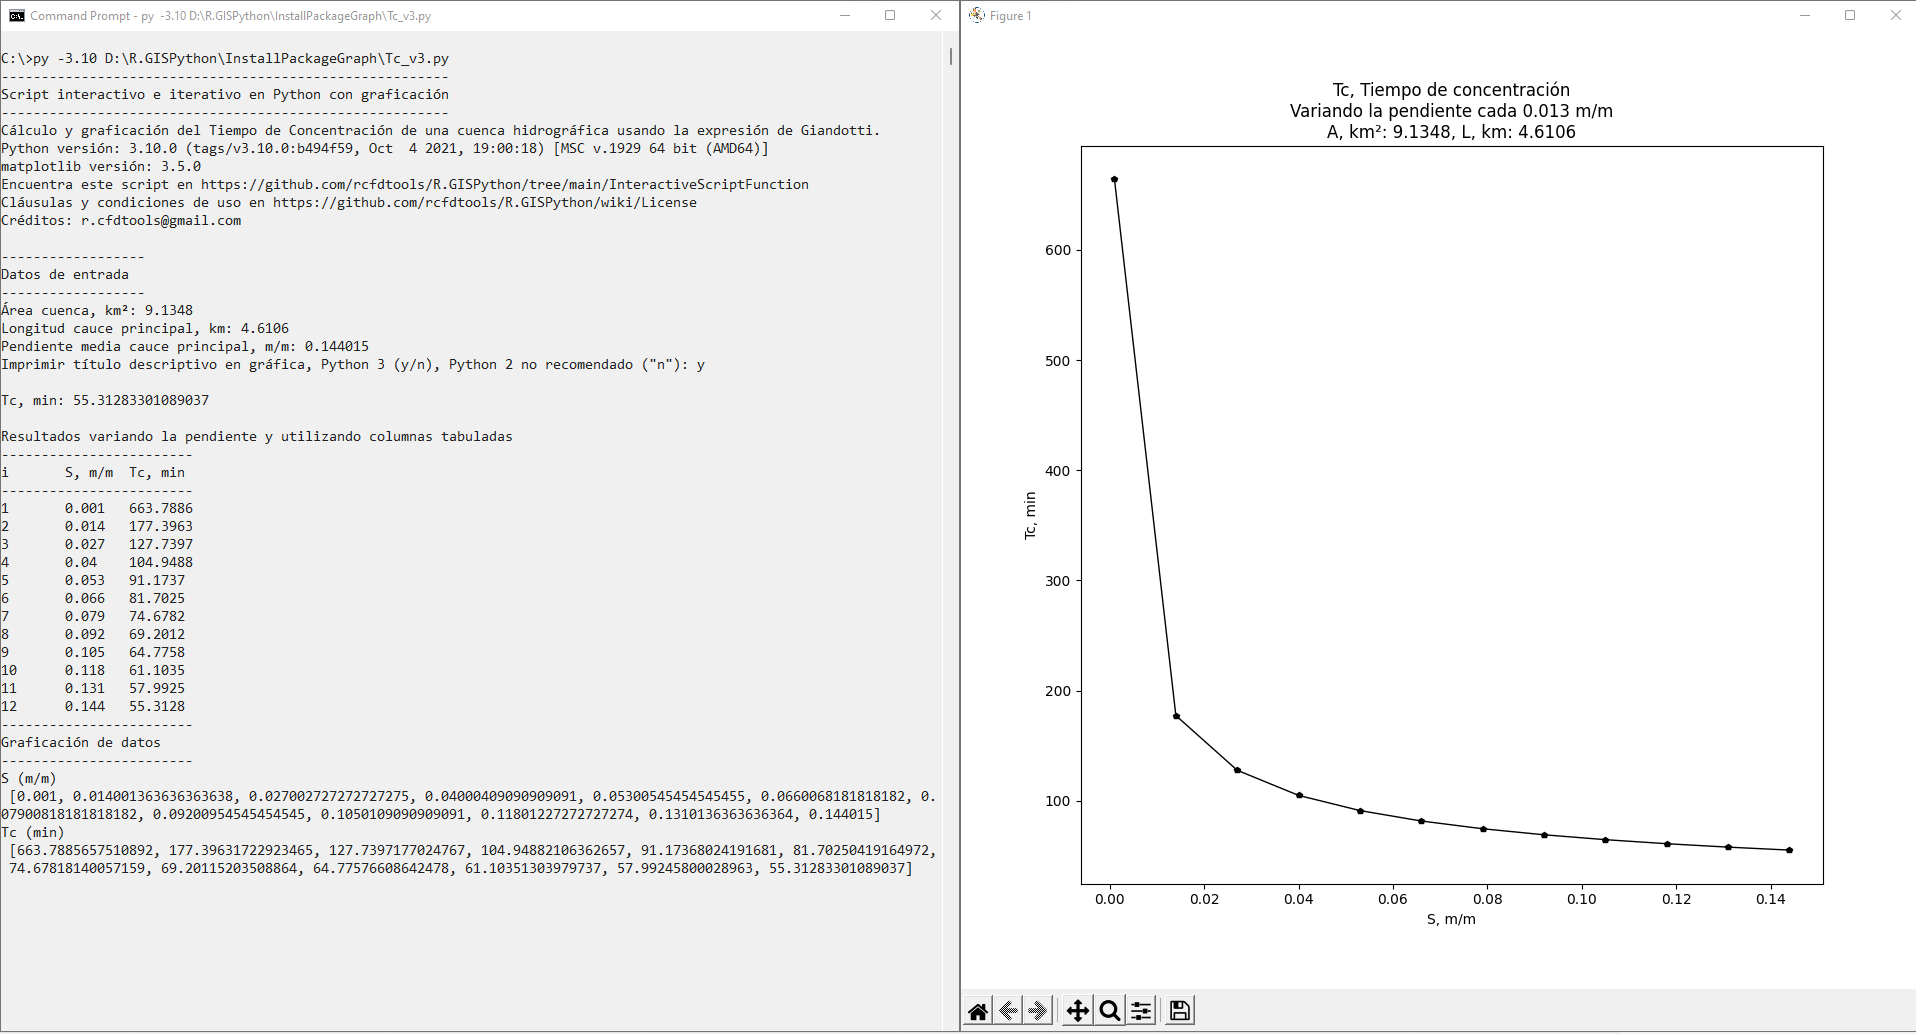
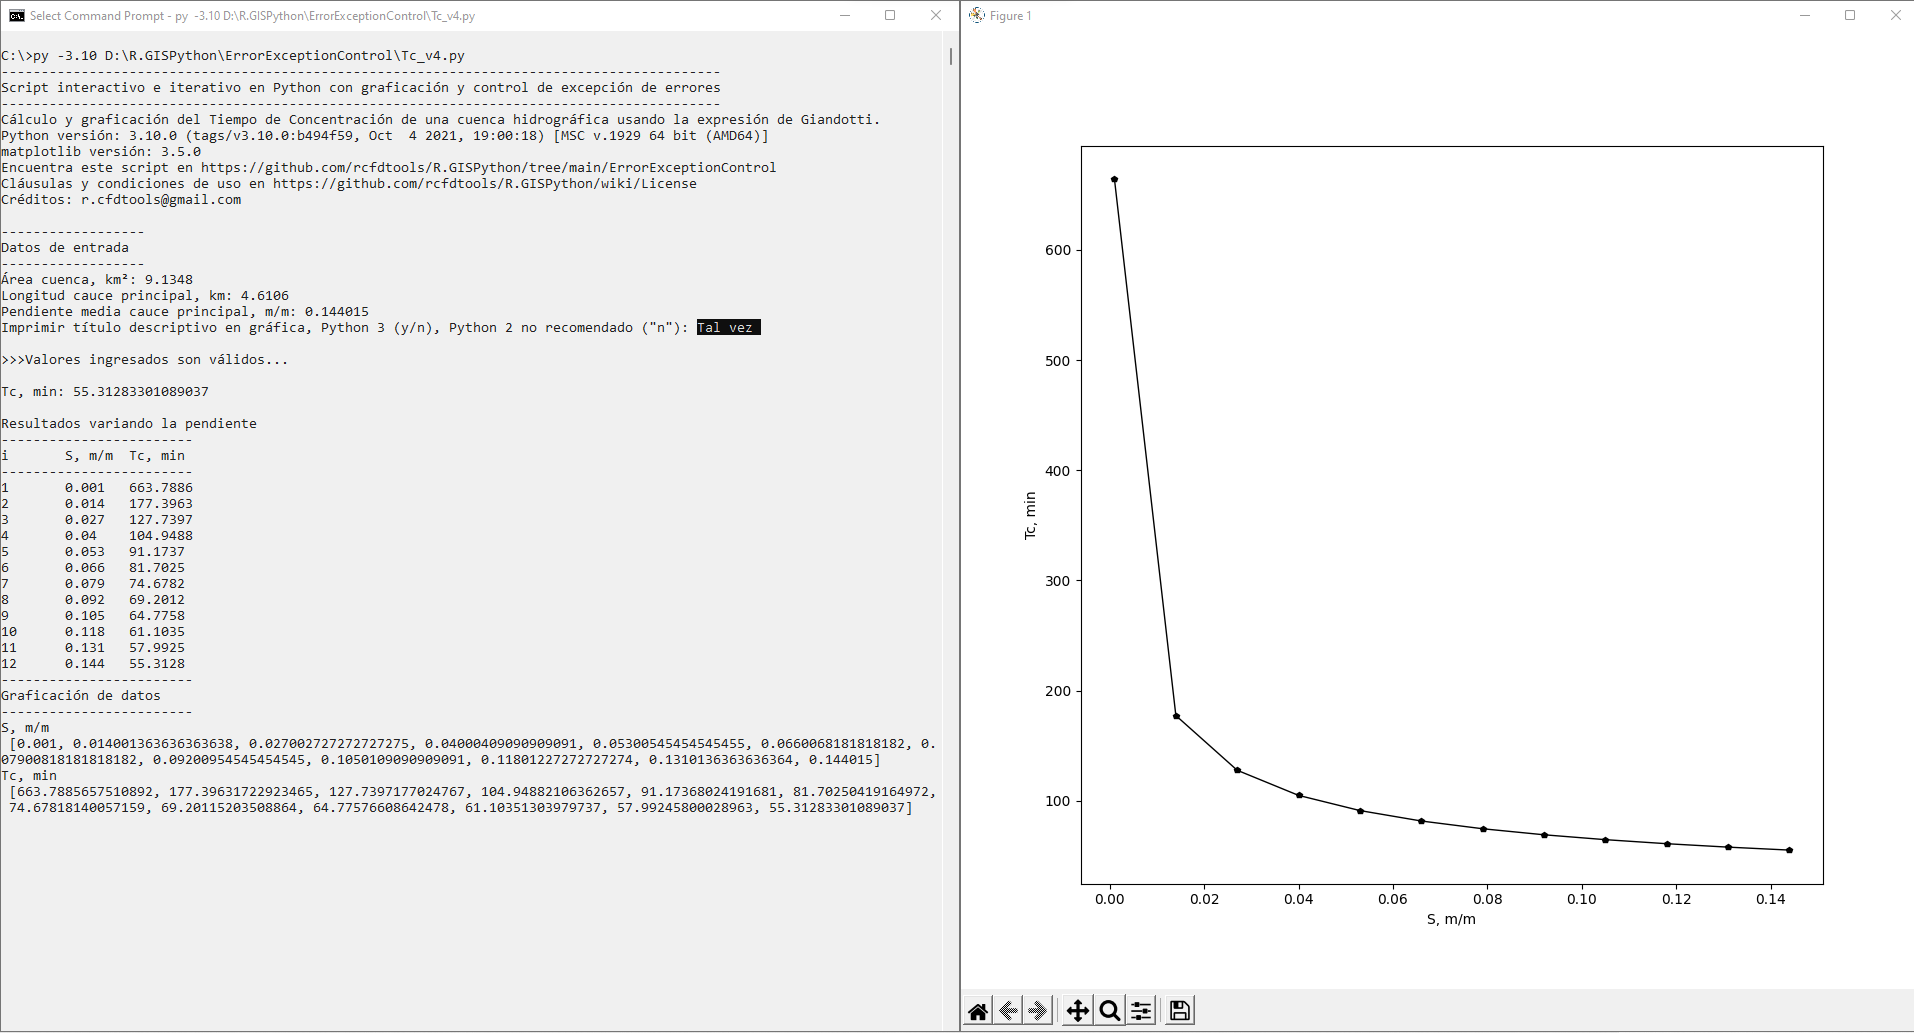
Actualización general

diff --git a/ErrorExceptionControl/Readme.md b/ErrorExceptionControl/Readme.md
@@ -172,10 +172,8 @@ except ValueError as e:
 
 ![PyCharm2021.3SetupPythonInterpreter.png](https://github.com/rcfdtools/R.GISPython/blob/main/ErrorExceptionControl/Screenshot/PyCharm2021.3SetupPythonInterpreter.png)
 
-Ejecución en PyCharm usando Python 2.7.5 de ArcGIS for Desktop 10.2.2. 
-![Python2.7.5ArcGISDesktop10.2.2PyCharm2021.3.png](https://github.com/rcfdtools/R.GISPython/blob/main/ErrorExceptionControl/Screenshot/Python2.7.5ArcGISDesktop10.2.2PyCharm2021.3.png)
-
-Ejecución en PyCharm usando Python 3.10.0.
+Ejecución en PyCharm usando Python 3.10.0 con control de excepción.
+![Python3.10.0StandalonePyCharm2021.3COntrol.png](https://github.com/rcfdtools/R.GISPython/blob/main/ErrorExceptionControl/Screenshot/Python3.10.0StandalonePyCharm2021.3Control.png)
 ![Python3.10.0StandalonePyCharm2021.3.png](https://github.com/rcfdtools/R.GISPython/blob/main/ErrorExceptionControl/Screenshot/Python3.10.0StandalonePyCharm2021.3.png)
 
 
@@ -193,9 +191,10 @@ Control de excepción para valores negativos
 Control de excepción para valores numéricos ingresados como texto
 ![Python3.10.0StandaloneCMDNumericTextControl.png](https://github.com/rcfdtools/R.GISPython/blob/main/ErrorExceptionControl/Screenshot/Python3.10.0StandaloneCMDNumericTextControl.png)
 
-
 Ejecución en consola CMD Python 3.10.0 Standalone.
 ![Python3.10.0StandaloneCMD.png](https://github.com/rcfdtools/R.GISPython/blob/main/ErrorExceptionControl/Screenshot/Python3.10.0StandaloneCMD.png)
+
+> Nótese que en la entrada de usuario solicitando si se incluye o no el título de la gráfica, se ha indicado _Tal vez_; de acuerdo a los controles de excepción, cualquier respuesta diferente a _y_ es considerada como _n_, por lo que no se imprimirá el título.
 
 
 ### Referencias
